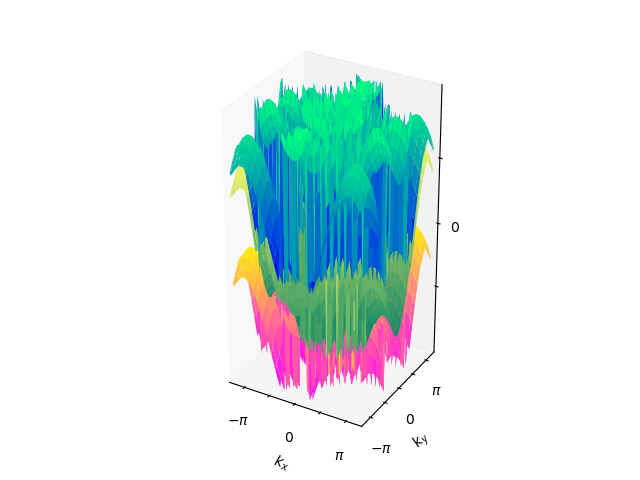
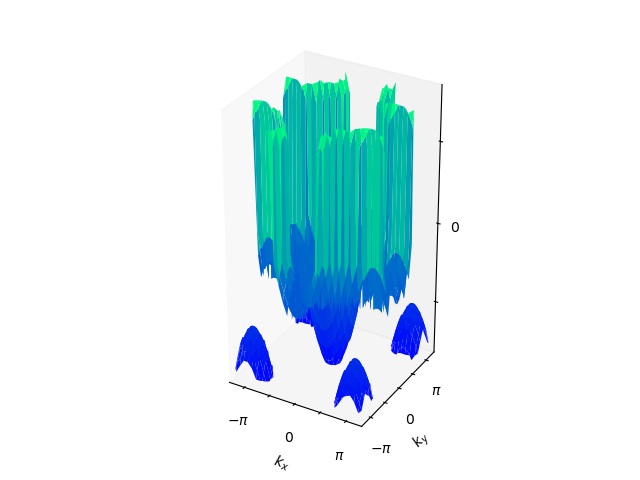
Made a start on improvements on energy sorting

Changed region(s): [[0.3438, 0.1562, 0.6875, 0.8438]]

diff --git a/test.py b/test.py
@@ -20,7 +20,36 @@ a_2 = np.transpose(np.array([[0,1]]))
 r = np.transpose(np.array([[0,0]]))
 offsets = np.array([r,r,r])
 
-H = square_hamiltonian_driven(0,1,-1,10,0,0,1,1,1,0,0,0,1,1,0,3,0)
+H = square_hamiltonian_driven(0,1,-1,0,0,0,1,1,1,0,0,0,1,1,0,3,0)
 
-energies, _ = compute_bandstructure2D(H, a_1, a_2, 100, 6, 100)
-plot_bandstructure2D(energies, a_1, a_2, 'test.png')
+energies, blochvectors = compute_bandstructure2D(H, a_1, a_2, 100, 6, 100)
+
+energies_sorted = np.zeros(energies.shape, dtype='float')
+blochvectors_sorted = np.zeros(blochvectors.shape, dtype='complex')
+for i in range(energies.shape[0]):
+    for j in range(energies.shape[1]):
+        if i == 0 and j == 0:
+            current_energies = energies[i,j] % (2 * np.pi)
+            ind = np.argsort(current_energies)
+            energies_sorted[i,j] = energies[i,j, ind]
+            blochvectors_sorted[i,j] = blochvectors[i,j,:,ind]
+            previous_energies = current_energies[ind]
+        else:
+            current_energies = energies[i,j] % (2 * np.pi)
+            ind = np.argsort(current_energies)
+            differences = np.zeros((3,), dtype='float')
+            for shift in range(3):
+                ind_roll = np.roll(ind,shift)
+                diff = (current_energies[ind] - previous_energies) % (2*np.pi)
+                diff = (diff + 2*np.pi*np.floor((-np.pi-diff) 
+                                                / (2*np.pi) + 1))
+                diff = np.abs(diff)
+                diff = np.sum(diff)
+                differences[shift] = diff
+            minimum = np.argmin(differences)
+            ind = np.roll(ind, minimum)
+            energies_sorted[i,j] = energies[i,j, ind]
+            blochvectors_sorted[i,j] = blochvectors[i,j,:,ind]
+            previous_energies = current_energies[ind]
+
+plot_bandstructure2D(energies_sorted, a_1, a_2, 'test.png')

diff --git a/tight_binding2/bandstructure.py b/tight_binding2/bandstructure.py
@@ -140,12 +140,27 @@ def plot_bandstructure2D(energy_grid,
     # Masking the data we do not want to plot
     E[:, (kx>kxmax) | (kx<kxmin) | (ky>kymax) | (ky<kymin)] = np.nan
 
+    # Dealing with discontinuities
+    top = np.nanmax(E)
+    print(top)
+    bottom = np.nanmin(E)
+    print(bottom)
+    for band in range(E.shape[0]):
+        distance_to_top = np.abs(E[band] - top)
+        distance_to_bottom = np.abs(E[band] - bottom)
+        
+        threshold = 0.1 * 2 * np.pi
+        discontinuity_mask = distance_to_top < threshold
+        E[band] = np.where(discontinuity_mask, np.nan, E[band])
+        discontinuity_mask = distance_to_bottom < threshold
+        E[band] = np.where(discontinuity_mask, np.nan, E[band])
+
     # Plotting
     fig, ax = plt.subplots(subplot_kw={"projection": "3d"})
-    surf1 = ax.plot_surface(kx, ky, E[0], cmap=cm.spring,
-                            linewidth=0)
-    surf2 = ax.plot_surface(kx, ky, E[1], cmap=cm.summer,
-                        linewidth=0)
+    #surf1 = ax.plot_surface(kx, ky, E[0], cmap=cm.spring,
+                            #linewidth=0)
+    #surf2 = ax.plot_surface(kx, ky, E[1], cmap=cm.summer,
+                        #linewidth=0)
     surf3 = ax.plot_surface(kx, ky, E[2], cmap=cm.winter,
                         linewidth=0)
     tick_values = np.linspace(-4,4,9) * np.pi / 2
